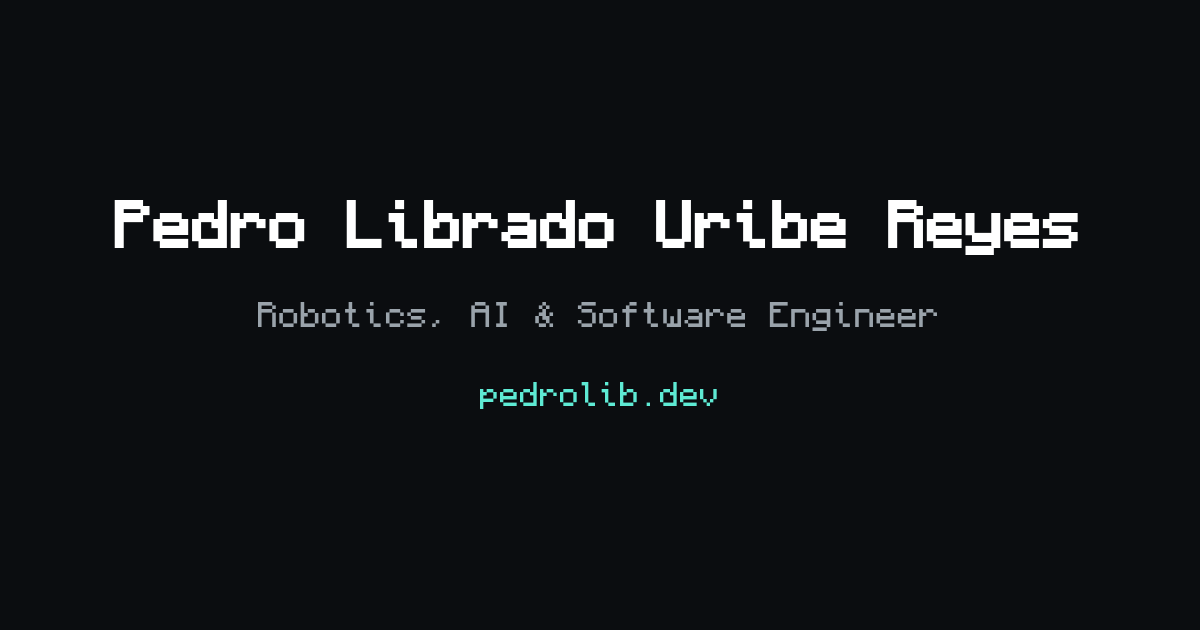
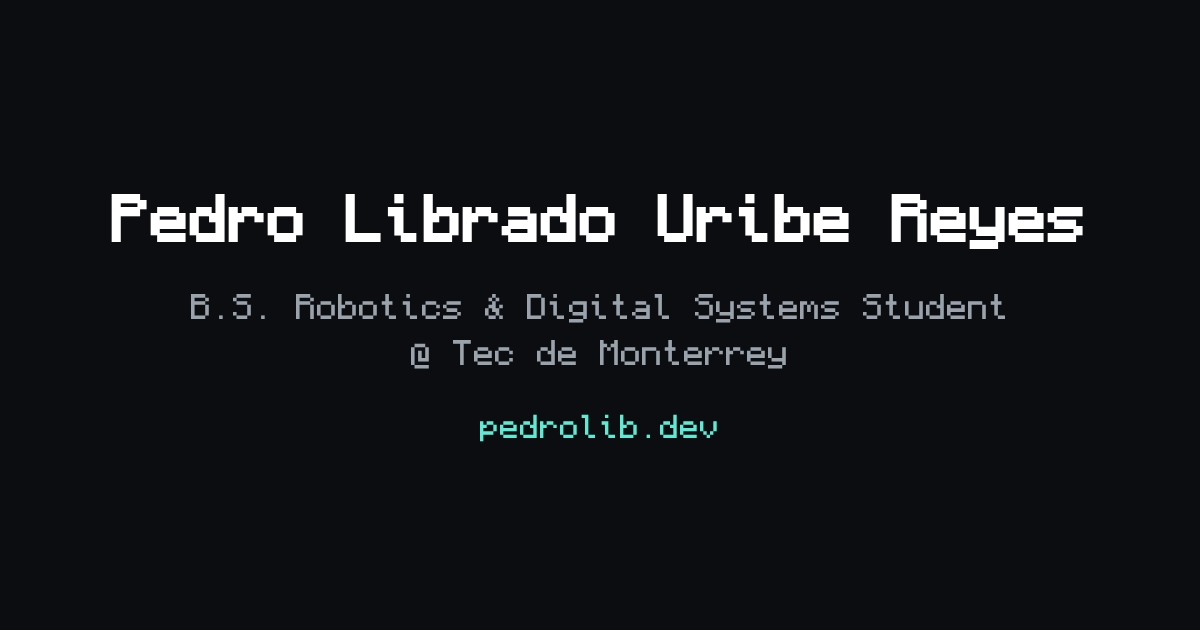
copy: student title and shorter looking-for line; fix tablet layout
The header, page title, share text and share image now say B.S. Robotics & Digital Systems Student @ Tec de Monterrey. The looking-for line is shorter. Below 1400px the experience role sits under the name, so it no longer breaks one letter per line on tablets. The disc gap is smaller below 1024px, which stops the sideways scroll at 768px. Case-study panels use two columns only from 1280px, and photos are capped at 50% of the screen height.

Changed region(s): [[0.1542, 0.4524, 0.8325, 0.6937], [0.0925, 0.3016, 0.7092, 0.3921], [0.74, 0.3016, 0.925, 0.4222]]

diff --git a/src/styles.css b/src/styles.css
@@ -784,7 +784,7 @@ h2 {
   display: block;
   width: auto;
   max-width: 100%;
-  max-height: min(60vh, 560px);
+  max-height: min(50vh, 480px);
   margin-inline: auto;
   border-radius: 0;
 }
@@ -802,7 +802,8 @@ h2 {
   color: var(--fg);
 }
 
-@media (min-width: 768px) {
+/* Below 1280px the panel is too narrow for two Monocraft columns. */
+@media (min-width: 1280px) {
   .ieee section {
     column-count: 2;
     column-gap: 2rem;
